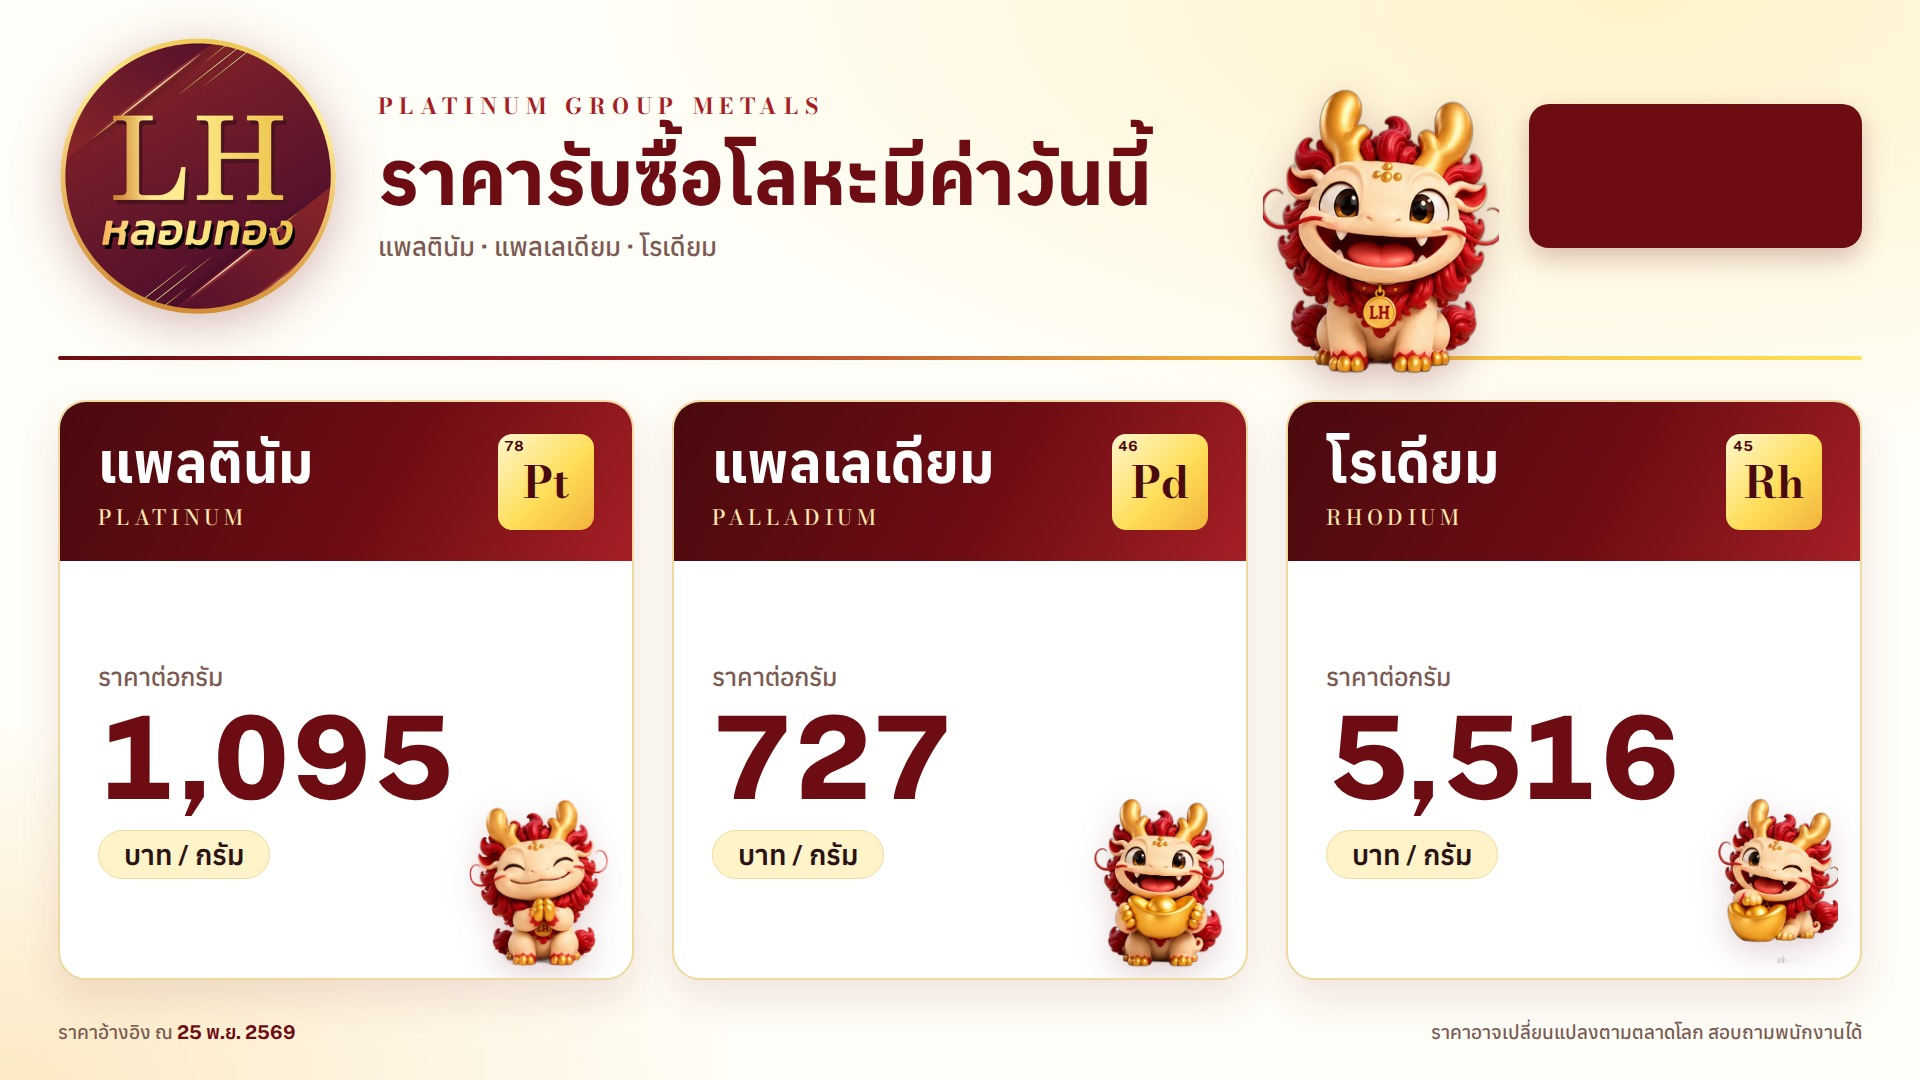
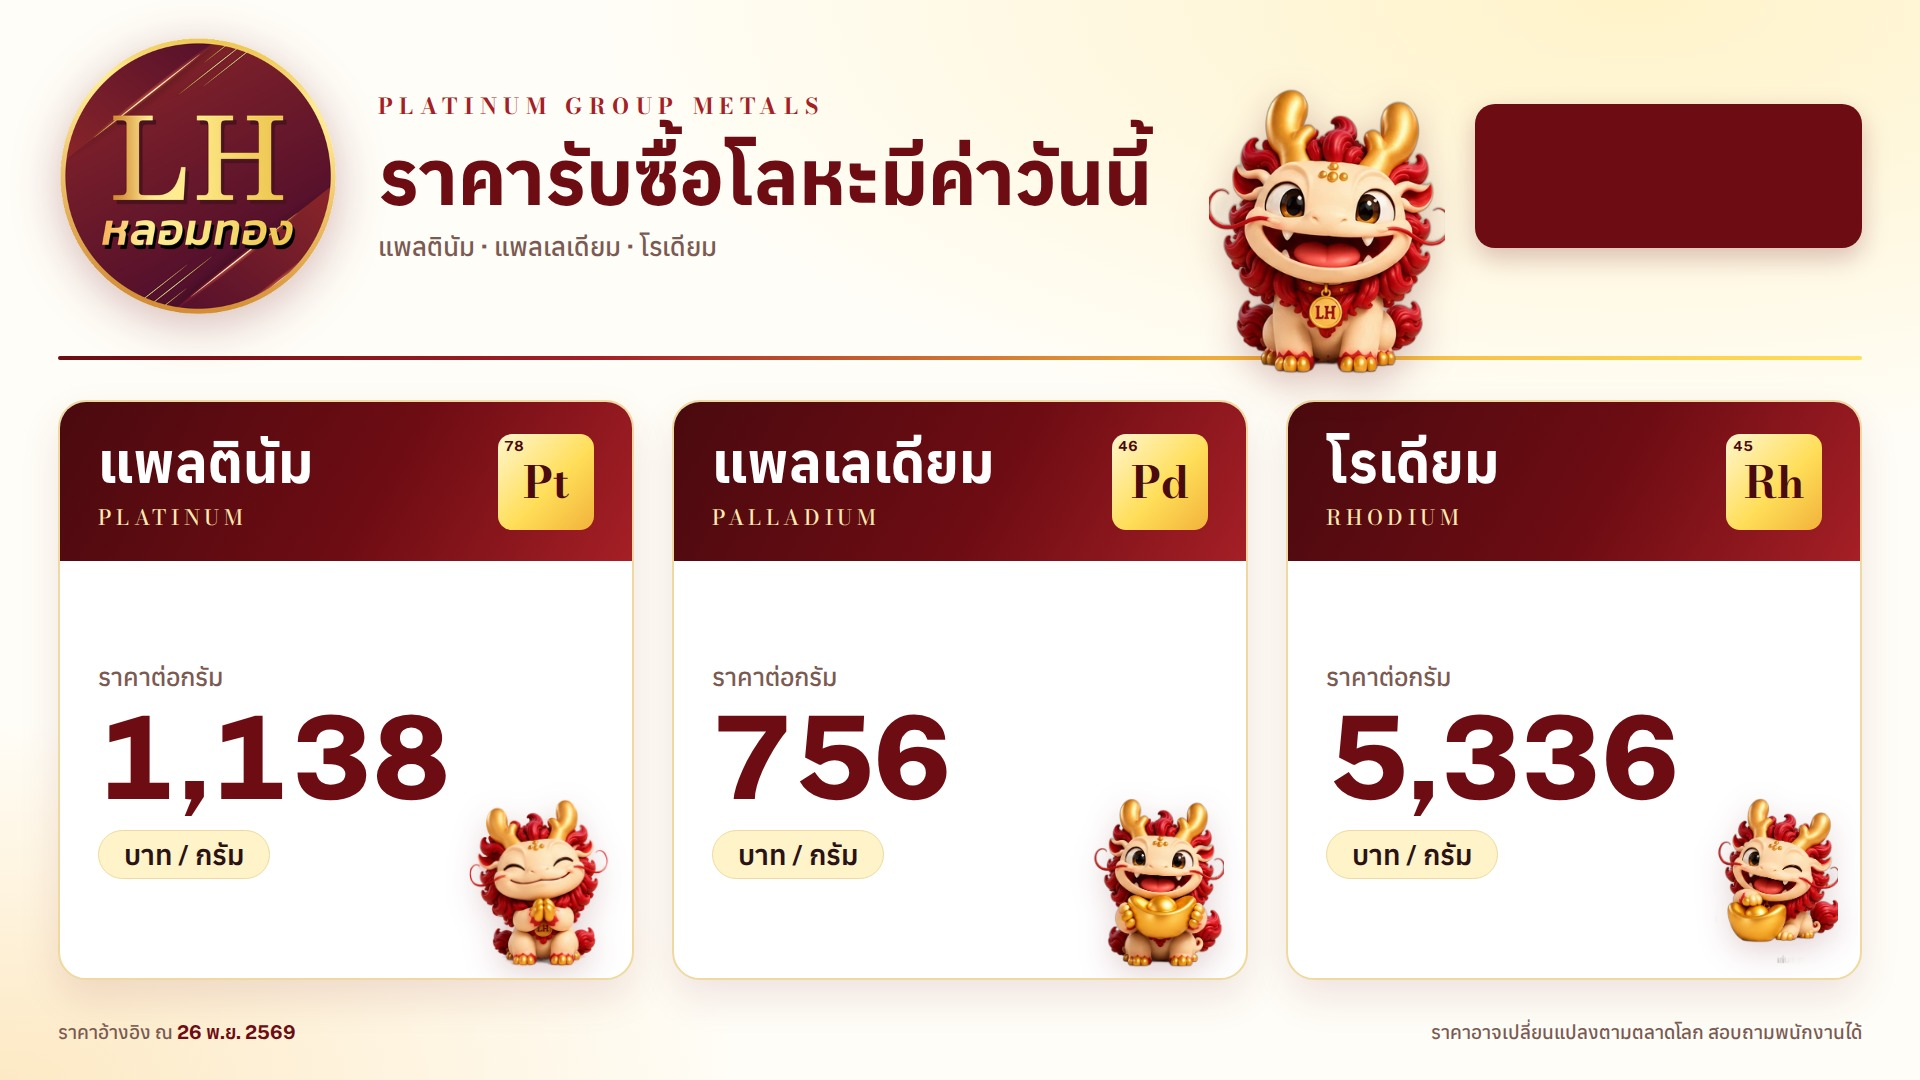
Update prices 2026-11-26

diff --git a/board.html b/board.html
@@ -302,15 +302,15 @@ html{-webkit-text-size-adjust:100%;text-size-adjust:100%}
      ราคาแต่ละเกรด = ราคาเงินหลังหัก × เปอร์เซ็นต์ (99.99% ใช้ราคาเต็ม)
    showSilver = เปิด/ปิดหน้าราคาเงิน, rotateSeconds = เปลี่ยนหน้าทุกกี่วินาที */
 const CONFIG = {
-  asOf: "25 พ.ย. 2569",
+  asOf: "26 พ.ย. 2569",
   fx: 33.94,
   discount: 0.20,
   rotateSeconds: 15,
   showSilver: true,
   metals: [
-    { th:"แพลตินัม",  en:"Platinum",  sym:"Pt", z:78, usdPerGram:40.317 },
-    { th:"แพลเลเดียม", en:"Palladium", sym:"Pd", z:46, usdPerGram:26.7816 },
-    { th:"โรเดียม",    en:"Rhodium",   sym:"Rh", z:45, usdPerGram:270.87, discount:0.40 }
+    { th:"แพลตินัม",  en:"Platinum",  sym:"Pt", z:78, usdPerGram:41.9245 },
+    { th:"แพลเลเดียม", en:"Palladium", sym:"Pd", z:46, usdPerGram:27.8425 },
+    { th:"โรเดียม",    en:"Rhodium",   sym:"Rh", z:45, usdPerGram:262.03, discount:0.40 }
   ],
   silver: { pricePerKg: 55000, grades: [95, 92.5, 90, 70, 50, 30] }
 };
